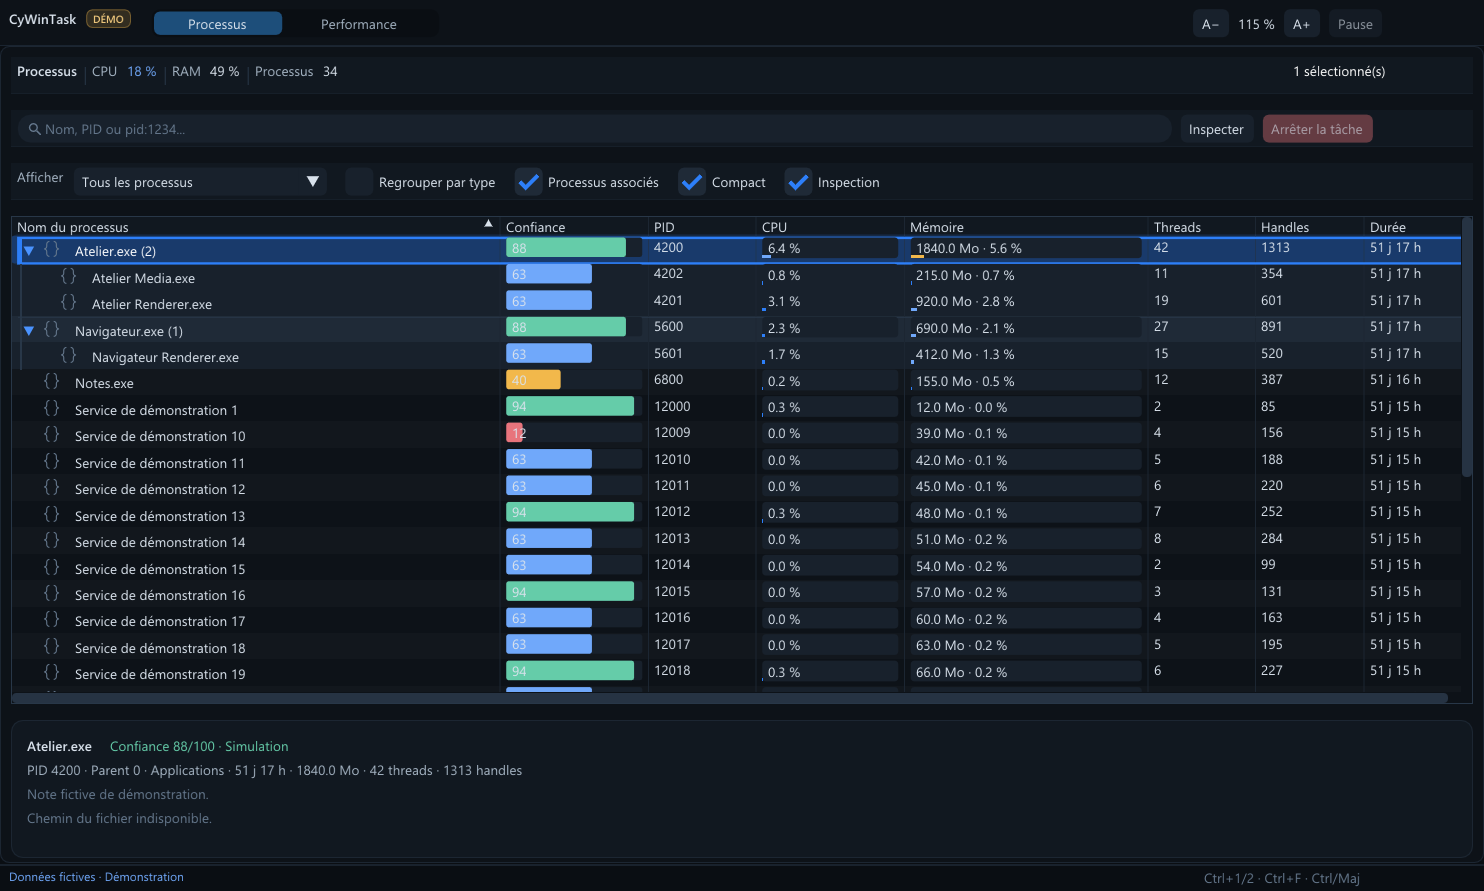
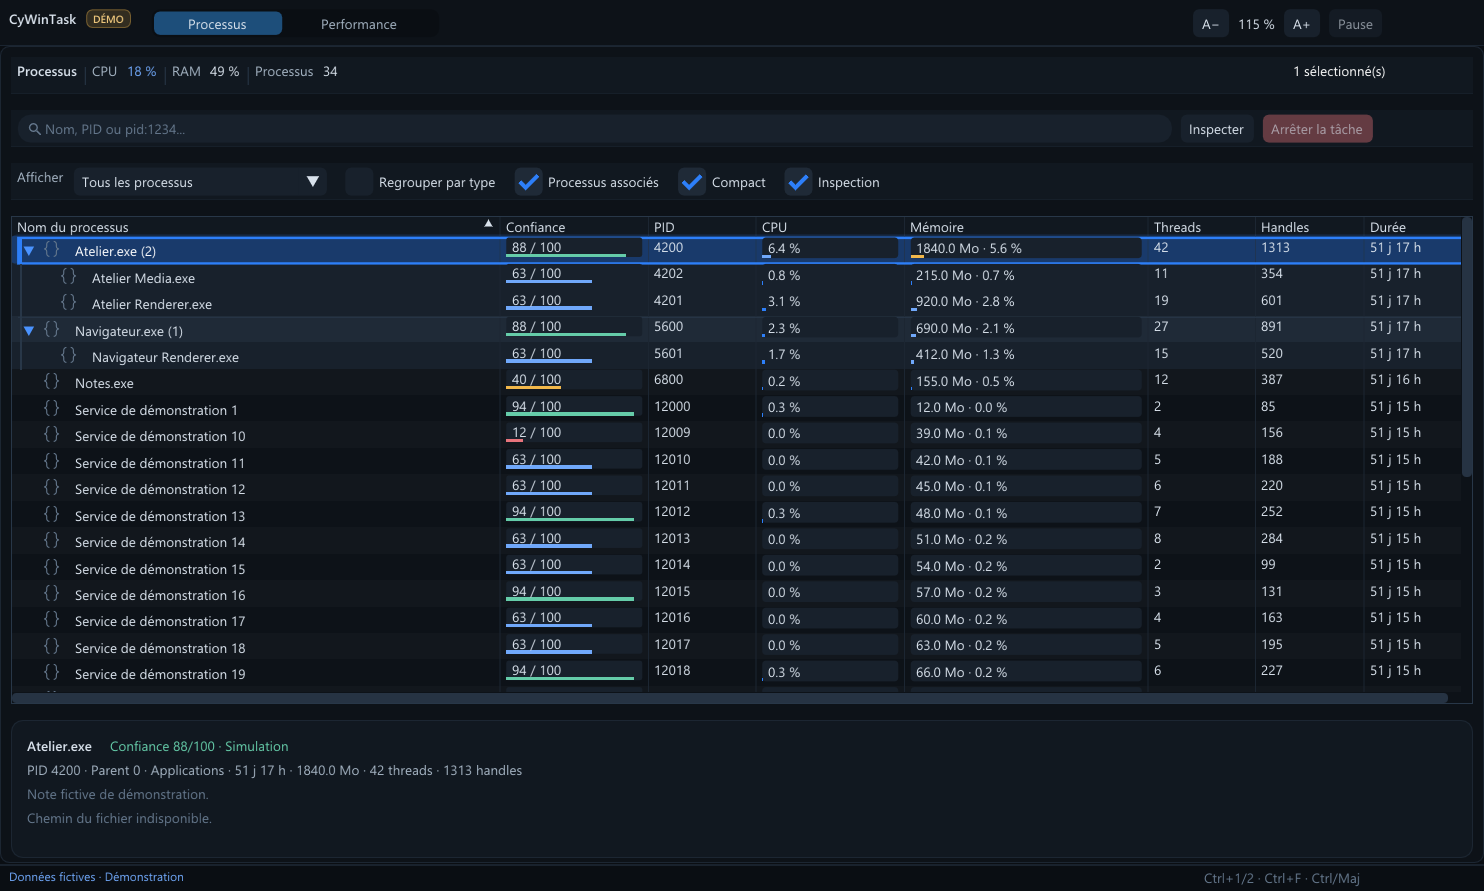
Improve process confidence score readability

Changed region(s): [[0.341, 0.2424, 0.434, 0.7879]]

diff --git a/native/src/AppUi.cpp b/native/src/AppUi.cpp
@@ -119,10 +119,12 @@ void trustBar(const TrustResult& trust, const float height)
         const ImU32 colour = trust.score >= 80 ? colors.success
             : trust.score >= 55 ? colors.info : trust.score >= 30 ? colors.warning : colors.error;
         const float fill = width * static_cast<float>(trust.score) / 100.0f;
-        draw->AddRectFilled(position, ImVec2(position.x + fill, position.y + height), colour, cyui::dp(2.0f));
-        const auto score = std::to_string(trust.score);
+        draw->AddRectFilled(ImVec2(position.x, position.y + height - cyui::dp(3.0f)),
+            ImVec2(position.x + fill, position.y + height), colour);
+        const auto score = std::to_string(trust.score) + " / 100";
         draw->AddText(ImVec2(position.x + cyui::dp(5.0f),
-            position.y + (height - ImGui::GetFontSize()) * 0.5f), colors.text, score.c_str());
+            position.y + std::max(0.0f, (height - ImGui::GetFontSize()) * 0.5f - cyui::dp(1.0f))),
+            colors.text, score.c_str());
     } else draw->AddText(ImVec2(position.x + cyui::dp(5.0f),
         position.y + (height - ImGui::GetFontSize()) * 0.5f), colors.textDim,
         trust.state == TrustState::pending ? "..." : "—");
